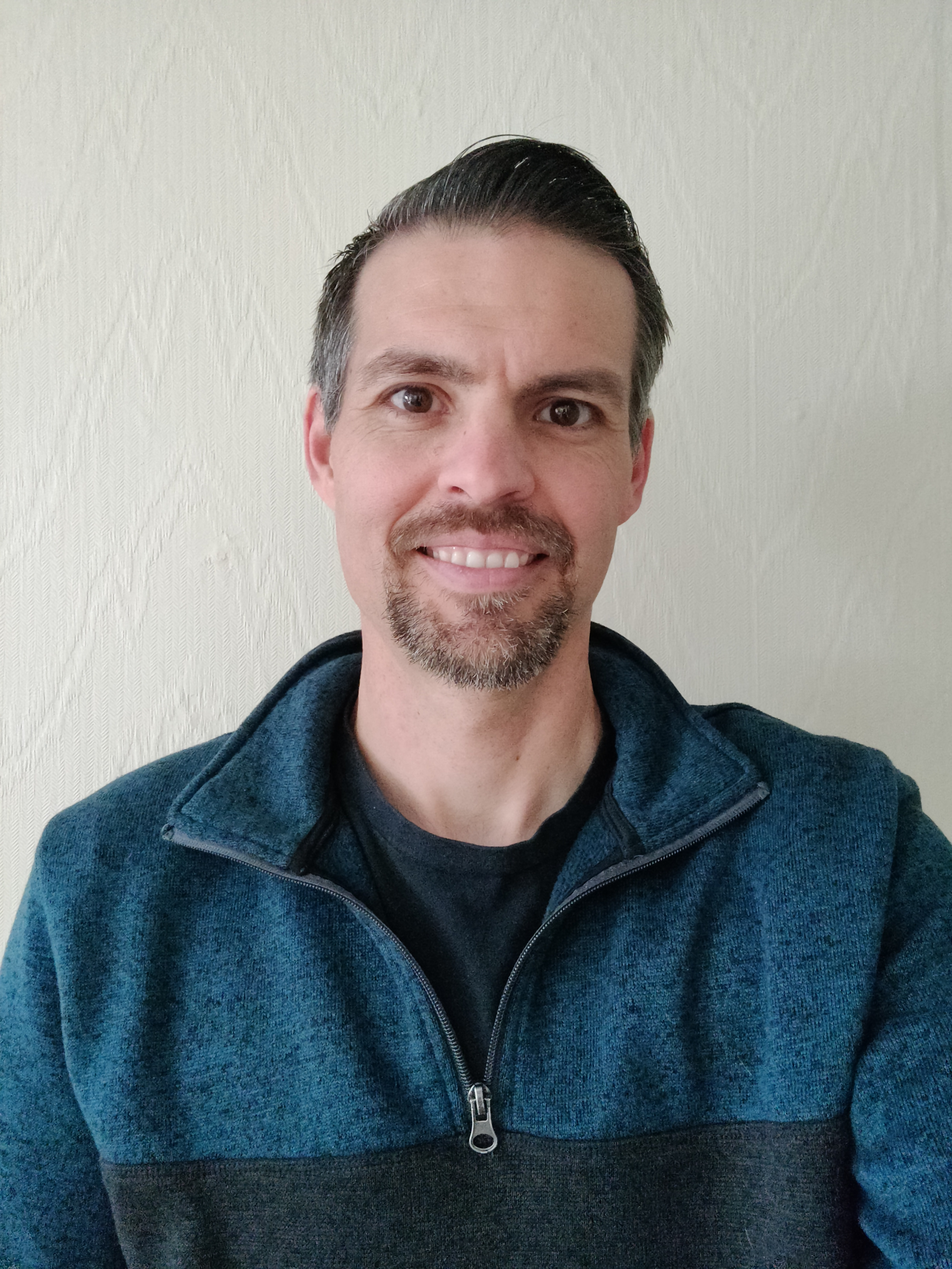
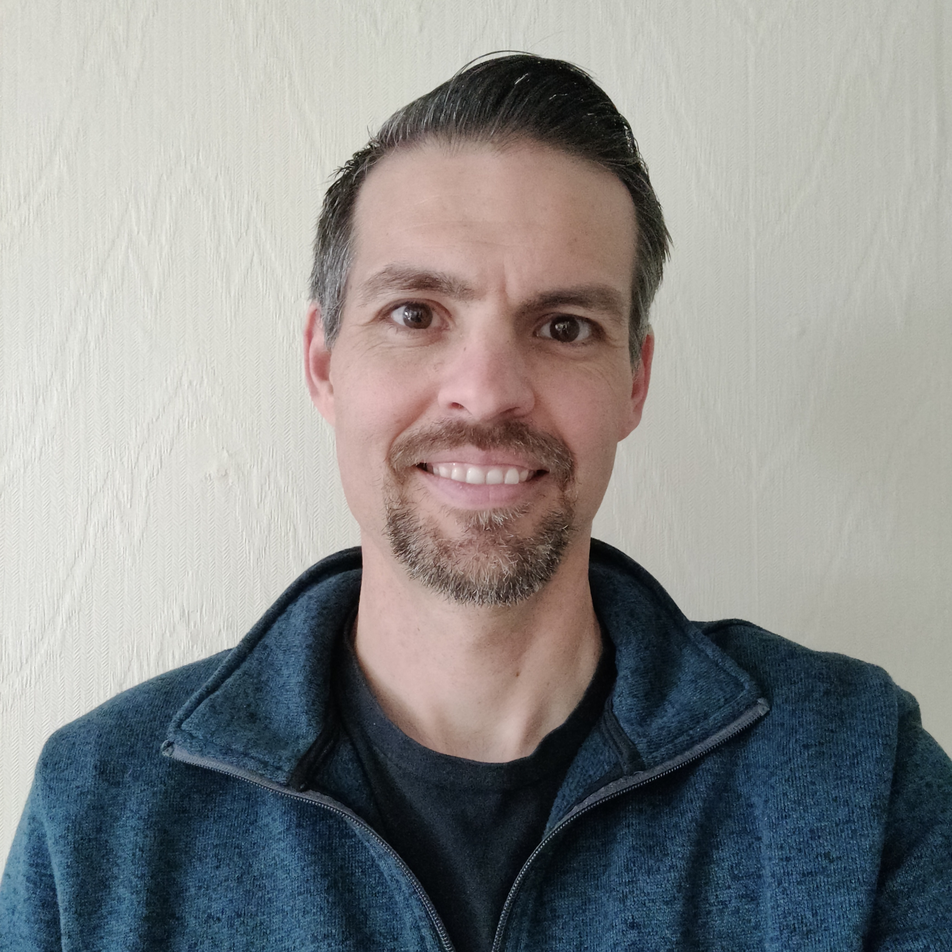
CHANGES

diff --git a/speakers.html b/speakers.html
@@ -248,7 +248,7 @@
                         <div class="card" data-aos="fade-up" data-aos-delay="250" data-aos-duration="800">
                             <div class="card-image">
                                 <figure class="image">
-                                    <img src=""alt="Matt Johnson">
+                                    <img src="/media/images/2023 Judges and Speakers/Mr. Johnson.jpg"alt="Matt Johnson">
                                 </figure>
                             </div>
                             <div class="card-content">
@@ -296,7 +296,7 @@
                         <div class="card" data-aos="fade-up" data-aos-delay="250" data-aos-duration="800">
                             <div class="card-image">
                                 <figure class="image">
-                                    <img src="" alt="">
+                                    <img src="/media/images/2023 Judges and Speakers/Mr. Crow.jpg" alt="Richard Crow">
                                 </figure>
                             </div>
                             <div class="card-content">
